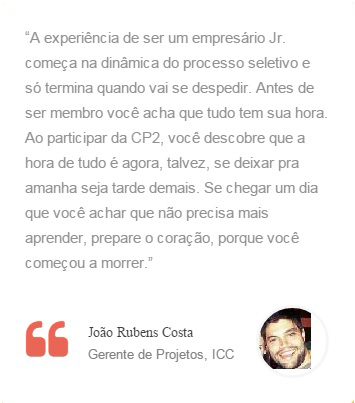
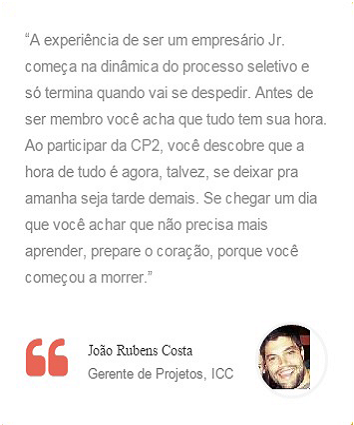
Design Responsivo Funcionando

diff --git a/brushed/Brushed/Template/brushed/index.html b/brushed/Brushed/Template/brushed/index.html
@@ -492,7 +492,7 @@
             <!-- Depoimento1 -->
             <div class="span4 profile">
                 <div class="image">
-                    <img src="_include/img/profile/depoimento1.png" alt="dep1">
+                    <img src="_include/img/profile/depoimento1.png" alt="dep1" width="320px">
                 </div>
             </div>
             <!-- Fim Depoimento1-->
@@ -500,7 +500,7 @@
             <!-- Depoimento2 -->
             <div class="span4 profile">
                 <div class="image">
-                    <img src="_include/img/profile/depoimento4.png" alt="dep4">
+                    <img src="_include/img/profile/depoimento4.png" alt="dep4" width="320px">
                 </div>
             </div>
             <!-- Fim Depoimento2-->
@@ -508,7 +508,7 @@
             <!-- Depoimento3 -->
             <div class="span4 profile">
                 <div class="image">
-                    <img src="_include/img/profile/depoimento5.png" alt="dep5">
+                    <img src="_include/img/profile/depoimento5.png" alt="dep5" width="320px">
                 </div>
             </div>
             <!-- Fim Depoimento3-->
